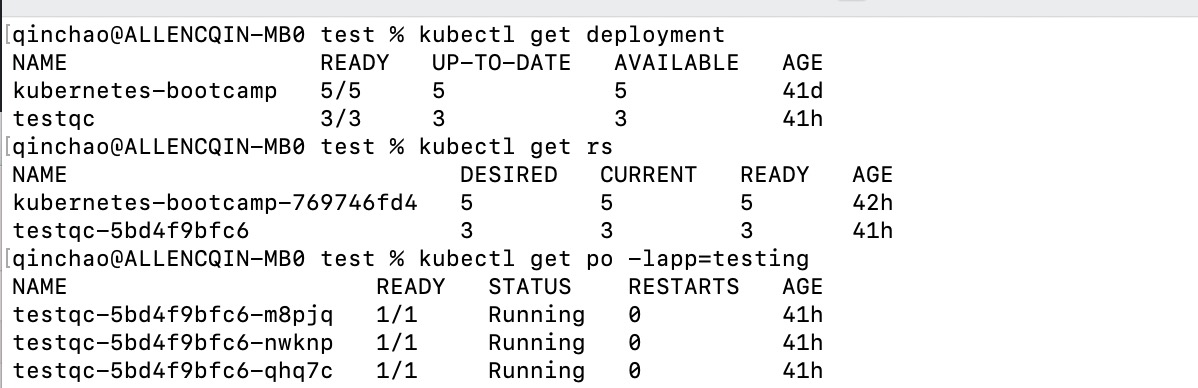
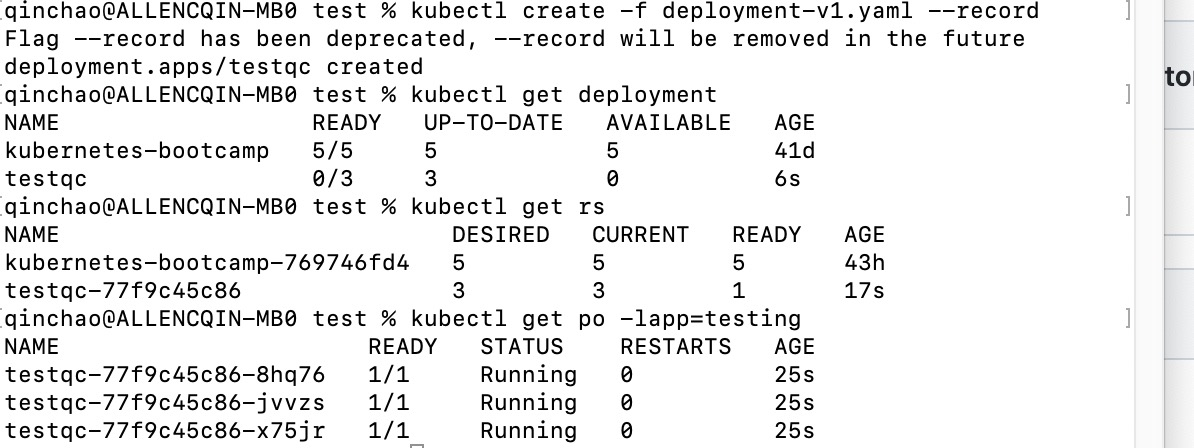
Site updated: 2021-11-07 20:00:05

diff --git a/2021/10/11/k8s/index.html b/2021/10/11/k8s/index.html
@@ -90,7 +90,7 @@ var _hmt = _hmt || [];
 
  
 	
-	<time  datetime="2021-10-10T16:00:00.000Z"><p>发表于 2021-10-11 | 字数 <span class="post-count">662</span>
+	<time  datetime="2021-10-10T16:00:00.000Z"><p>发表于 2021-10-11 | 字数 <span class="post-count">673</span>
 
 </p></time>
       
@@ -144,9 +144,9 @@ var _hmt = _hmt || [];
 <p>2, 触发升级</p>
 <p>触发条件：只要修改deployment中定义的pod模板，k8s就会自动将实际的系统状态收敛为资源中定义的状态。</p>
 <ul>
-<li>通过<code>kubectl set image deployment testqc nodejs=qinchaowhut/allen:v2</code> 来修改Deployment的pod模板内的镜像(其中deployment的name为testqc, nodejs为容器name, qinchaowhut/allen:v2为镜像版本)</li>
+<li>通过<code>kubectl set image deployment testqc nodejs=qinchaowhut/allen:v2</code> 来修改Deployment的pod模板内的镜像(其中deployment的name为testqc, nodejs为容器name, qinchaowhut/allen:v2为镜像版本)<br><img src="/img/setallenv2" alt="set image"></li>
 </ul>
-<p><img src="/img/httpechov2.jpeg" alt="http response"></p>
+<p>升级完成之后，发送curl请求:<br><img src="/img/httpechov2.jpeg" alt="http response"></p>
 <ul>
 <li>查看升级前后ReplicaSet<br><img src="/img/update.jpg" alt="升级前后"> </li>
 </ul>

diff --git a/index.html b/index.html
@@ -91,7 +91,7 @@ var _hmt = _hmt || [];
 
  
 	
-	<time  datetime="2021-10-10T16:00:00.000Z"><p>发表于 2021-10-11 | 字数 <span class="post-count">662</span>
+	<time  datetime="2021-10-10T16:00:00.000Z"><p>发表于 2021-10-11 | 字数 <span class="post-count">673</span>
 
 </p></time>
       
@@ -145,9 +145,9 @@ var _hmt = _hmt || [];
 <p>2, 触发升级</p>
 <p>触发条件：只要修改deployment中定义的pod模板，k8s就会自动将实际的系统状态收敛为资源中定义的状态。</p>
 <ul>
-<li>通过<code>kubectl set image deployment testqc nodejs=qinchaowhut/allen:v2</code> 来修改Deployment的pod模板内的镜像(其中deployment的name为testqc, nodejs为容器name, qinchaowhut/allen:v2为镜像版本)</li>
+<li>通过<code>kubectl set image deployment testqc nodejs=qinchaowhut/allen:v2</code> 来修改Deployment的pod模板内的镜像(其中deployment的name为testqc, nodejs为容器name, qinchaowhut/allen:v2为镜像版本)<br><img src="/img/setallenv2" alt="set image"></li>
 </ul>
-<p><img src="/img/httpechov2.jpeg" alt="http response"></p>
+<p>升级完成之后，发送curl请求:<br><img src="/img/httpechov2.jpeg" alt="http response"></p>
 <ul>
 <li>查看升级前后ReplicaSet<br><img src="/img/update.jpg" alt="升级前后"> </li>
 </ul>
